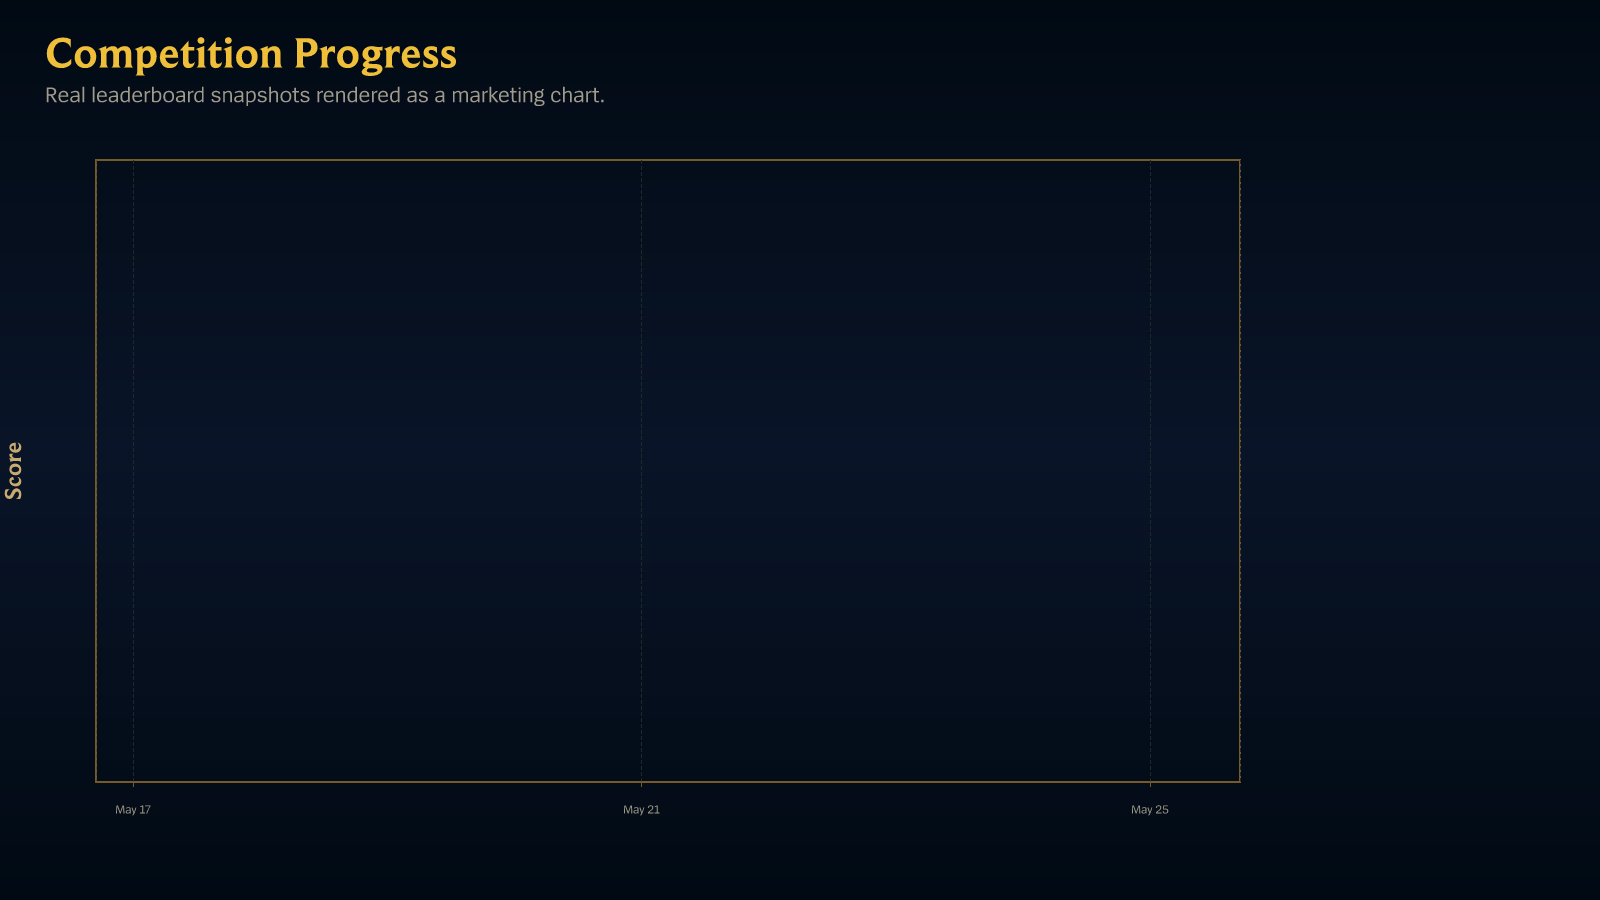
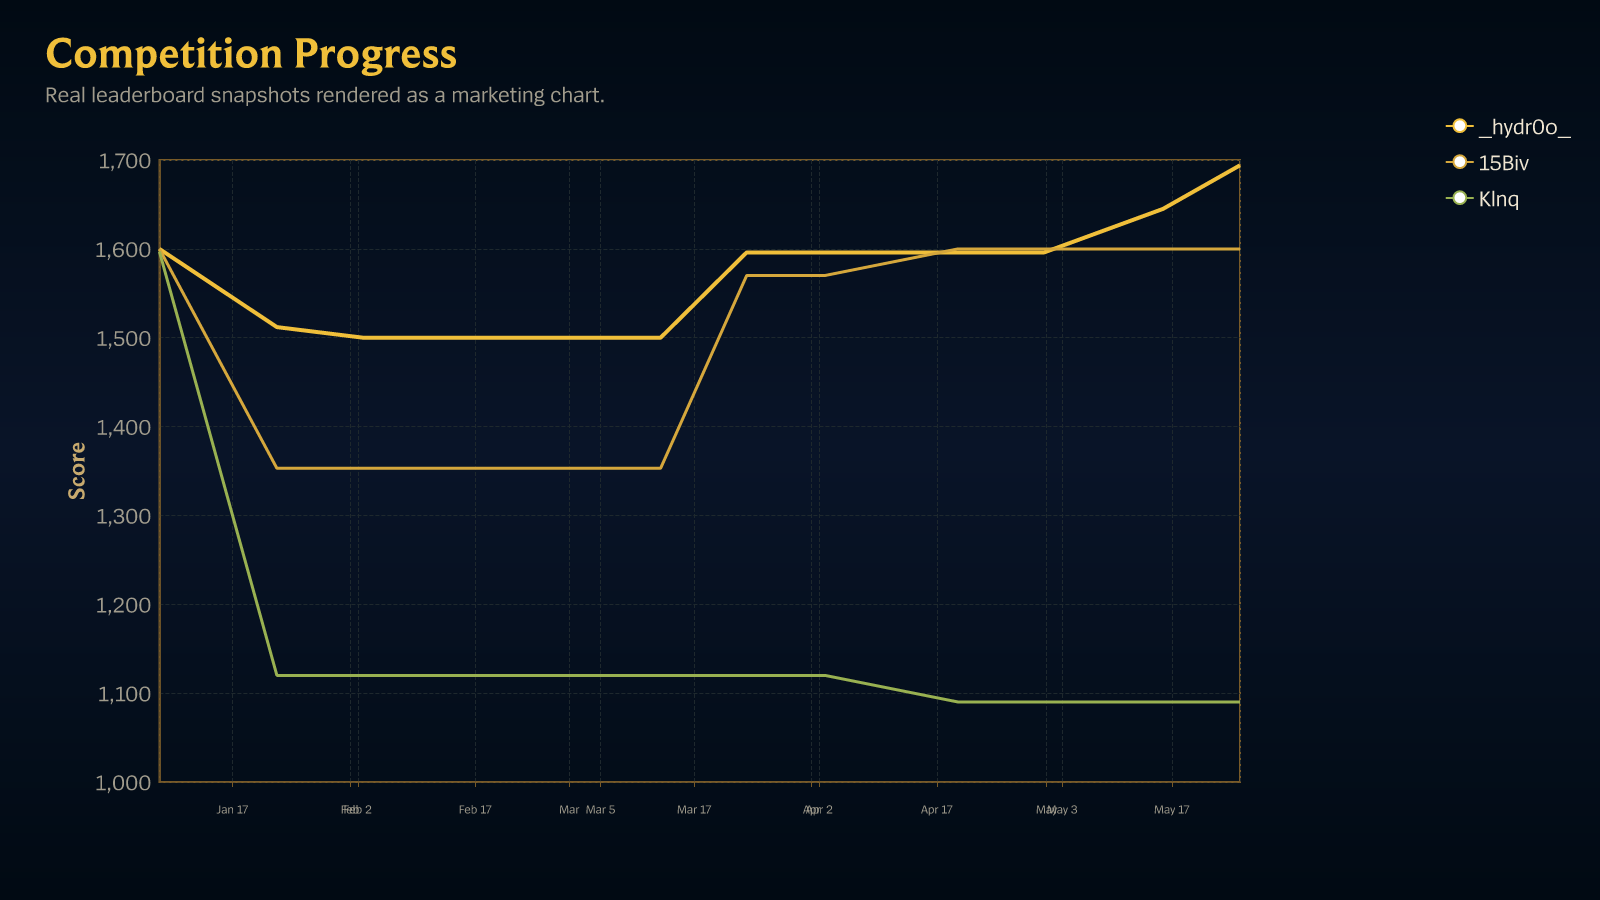
fix(scout-for-lol): competition-graph was empty — pick a populated competition + full-range sampling
discover selected the competition with the most snapshots (competition-9, 119)
but its leaderboard had emptied out (0 entries) -> blank chart. Now:
- skip competitions whose latest snapshot has no entries; pick the most-
  populated one (competition-3, 3 players)
- sample snapshots evenly across the FULL competition range instead of the
  recent (flat) tail, so the line chart shows real climb/movement
- competition-graph.ts: choose top players from the most-populated snapshot
  (defensive against an empty final snapshot)

diff --git a/packages/scout-for-lol/packages/backend/scripts/discover-marketing-showcase.ts b/packages/scout-for-lol/packages/backend/scripts/discover-marketing-showcase.ts
@@ -14,6 +14,7 @@ import {
   DISCORD_SHOWCASE_TEMPLATES,
   discordScreenshotEntry,
 } from "#src/showcase/discord-templates.ts";
+import { readS3JsonOptional } from "#src/showcase/s3.ts";
 
 const CliFlagNameSchema = z.enum([
   "bucket",
@@ -496,38 +497,87 @@ function leaderboardSnapshotGroups(keys: string[]): Map<string, string[]> {
   return groups;
 }
 
-function competitionGraphEntry(
-  keys: string[],
-  prevById: Map<string, ShowcaseEntry>,
-): ShowcaseEntry {
-  const groups = leaderboardSnapshotGroups(keys);
-  const selected = [...groups.values()]
-    .filter((group) => group.length > 1)
-    .toSorted((left, right) => right.length - left.length)[0];
+const SnapshotEntriesSchema = z.object({ entries: z.array(z.unknown()) });
 
-  if (selected === undefined) {
-    return (
-      prevById.get("competition-graph") ?? {
-        kind: "unsupported",
-        id: "competition-graph",
-        title: "Competition Graph",
-        group: "Graphs",
-        reason:
-          "No leaderboard snapshot series with at least two points was found.",
-      }
-    );
+/**
+ * Evenly sample up to `count` keys across the full sorted range so the chart
+ * spans the whole competition (showing real movement) rather than just the
+ * recent — often flat — tail.
+ */
+function sampleEvenly(sortedKeys: string[], count: number): string[] {
+  if (sortedKeys.length <= count) {
+    return sortedKeys;
+  }
+  const step = (sortedKeys.length - 1) / (count - 1);
+  const picked: string[] = [];
+  for (let index = 0; index < count; index += 1) {
+    const key = sortedKeys[Math.round(index * step)];
+    if (key !== undefined && !picked.includes(key)) {
+      picked.push(key);
+    }
+  }
+  return picked;
+}
+
+async function snapshotHasEntries(params: {
+  client: S3Client;
+  bucket: string;
+  key: string;
+}): Promise<boolean> {
+  const json = await readS3JsonOptional(params);
+  const parsed = SnapshotEntriesSchema.safeParse(json);
+  return parsed.success && parsed.data.entries.length > 0;
+}
+
+async function competitionGraphEntry(params: {
+  client: S3Client;
+  bucket: string;
+  keys: string[];
+  prevById: Map<string, ShowcaseEntry>;
+}): Promise<ShowcaseEntry> {
+  // Prefer the competition with the most snapshots whose *latest* snapshot is
+  // actually populated — a dead/cleared leaderboard has snapshots but no
+  // entries, which renders as an empty chart.
+  const candidates = [...leaderboardSnapshotGroups(params.keys).values()]
+    .filter((group) => group.length > 1)
+    .toSorted((left, right) => right.length - left.length);
+
+  for (const group of candidates) {
+    const snapshotKeys = group.toSorted();
+    const latestKey = snapshotKeys.at(-1);
+    if (latestKey === undefined) {
+      continue;
+    }
+    if (
+      !(await snapshotHasEntries({
+        client: params.client,
+        bucket: params.bucket,
+        key: latestKey,
+      }))
+    ) {
+      continue;
+    }
+    return {
+      kind: "competition-graph",
+      id: "competition-graph",
+      title: "Competition Progress",
+      group: "Graphs",
+      description: "Real leaderboard snapshots rendered as a marketing chart.",
+      snapshotKeys: sampleEvenly(snapshotKeys, 12),
+      chartType: "line",
+      yAxisLabel: "Score",
+    };
   }
 
-  return {
-    kind: "competition-graph",
-    id: "competition-graph",
-    title: "Competition Progress",
-    group: "Graphs",
-    description: "Real leaderboard snapshots rendered as a marketing chart.",
-    snapshotKeys: selected.toSorted().slice(-10),
-    chartType: "line",
-    yAxisLabel: "Score",
-  };
+  return (
+    params.prevById.get("competition-graph") ?? {
+      kind: "unsupported",
+      id: "competition-graph",
+      title: "Competition Graph",
+      group: "Graphs",
+      reason: "No competition with a populated recent leaderboard was found.",
+    }
+  );
 }
 
 function reportGraphEntry(
@@ -619,6 +669,13 @@ process.stderr.write(
   `Headed ${postmatch.headCount.toString()} postmatch + ${prematch.headCount.toString()} prematch object(s) (budget ${maxHead.toString()}).\n`,
 );
 
+const competitionEntry = await competitionGraphEntry({
+  client,
+  bucket,
+  keys: leaderboardKeys,
+  prevById,
+});
+
 const manifest = ShowcaseManifestSchema.parse({
   version: 1,
   entries: [
@@ -629,7 +686,7 @@ const manifest = ShowcaseManifestSchema.parse({
       prevById,
     }),
     ...discordEntries(postmatch.candidates, prevById),
-    competitionGraphEntry(leaderboardKeys, prevById),
+    competitionEntry,
     reportGraphEntry(postmatch.candidates, prevById),
   ],
 });

diff --git a/packages/scout-for-lol/packages/backend/src/showcase/competition-graph.ts b/packages/scout-for-lol/packages/backend/src/showcase/competition-graph.ts
@@ -60,7 +60,14 @@ function competitionLineChartProps(params: {
     throw new Error("Cannot render line chart without snapshots");
   }
 
-  const topEntries = latestSnapshot(sorted).entries.slice(0, 10);
+  // Pick the players to plot from the most-populated snapshot, not strictly
+  // the latest — a leaderboard whose final snapshot emptied out would
+  // otherwise yield an empty chart.
+  const richestSnapshot =
+    sorted.toSorted(
+      (left, right) => right.entries.length - left.entries.length,
+    )[0] ?? first;
+  const topEntries = richestSnapshot.entries.slice(0, 10);
   return {
     chartType: "line",
     title: params.entry.title,